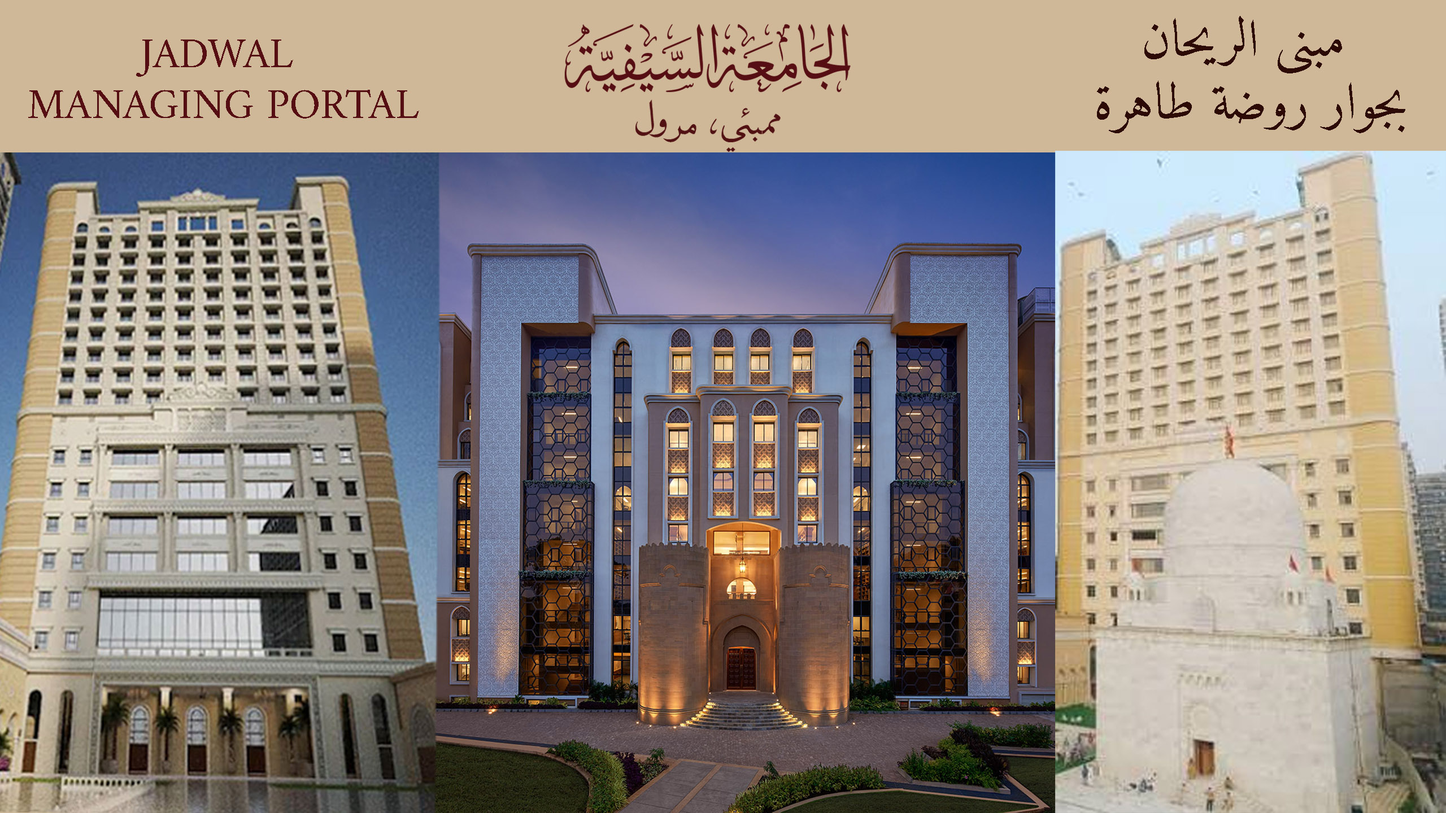
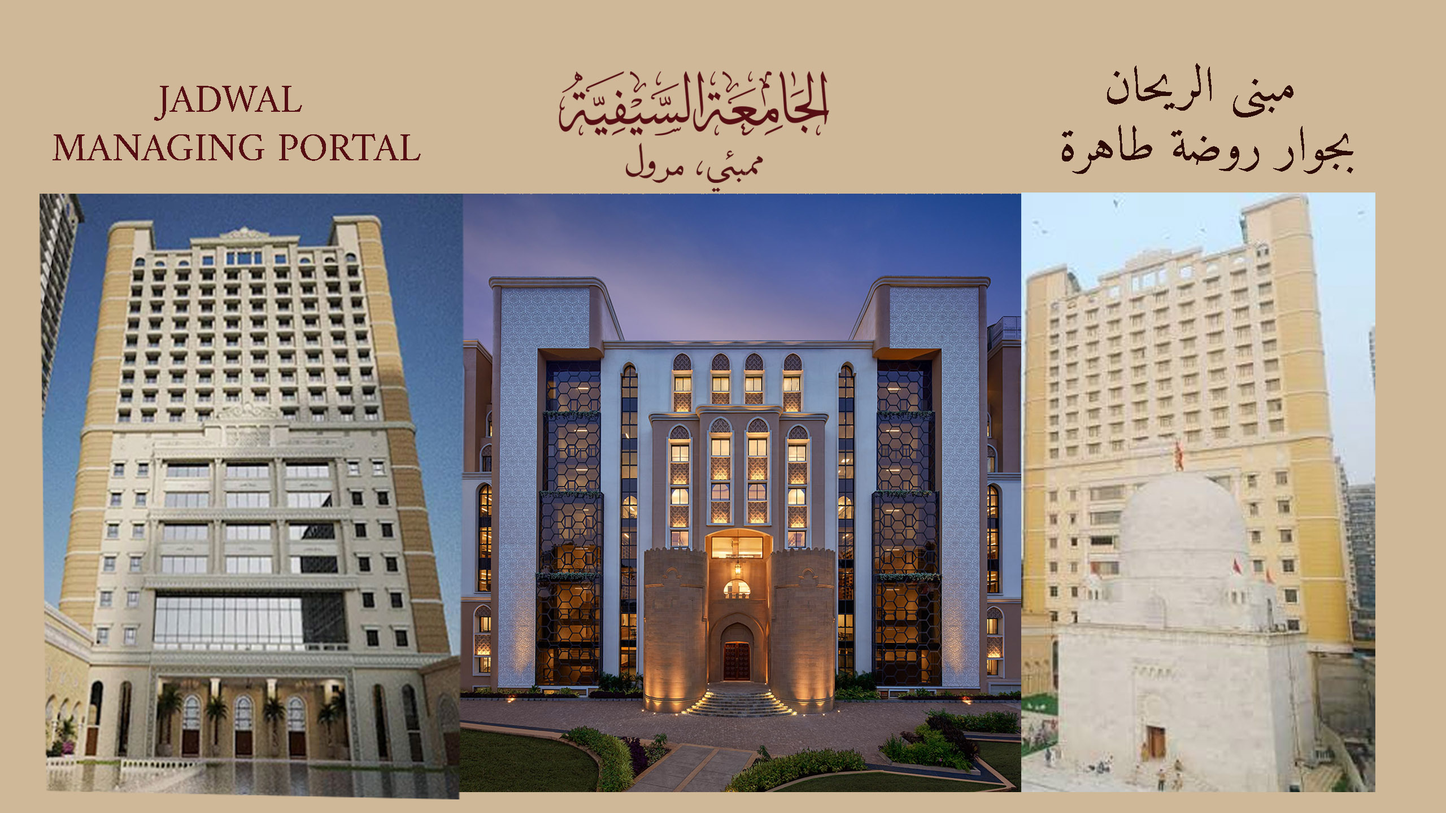
Widen Google sign-in button

diff --git a/src/pages/LoginPage.jsx b/src/pages/LoginPage.jsx
@@ -49,8 +49,12 @@ export default function LoginPage() {
               )
             }
             theme="outline"
-            type="icon"
-            shape="circle"
+            type="standard"
+            size="large"
+            shape="rectangular"
+            text="signin_with"
+            logo_alignment="left"
+            width="360"
           />
       </section>
 
